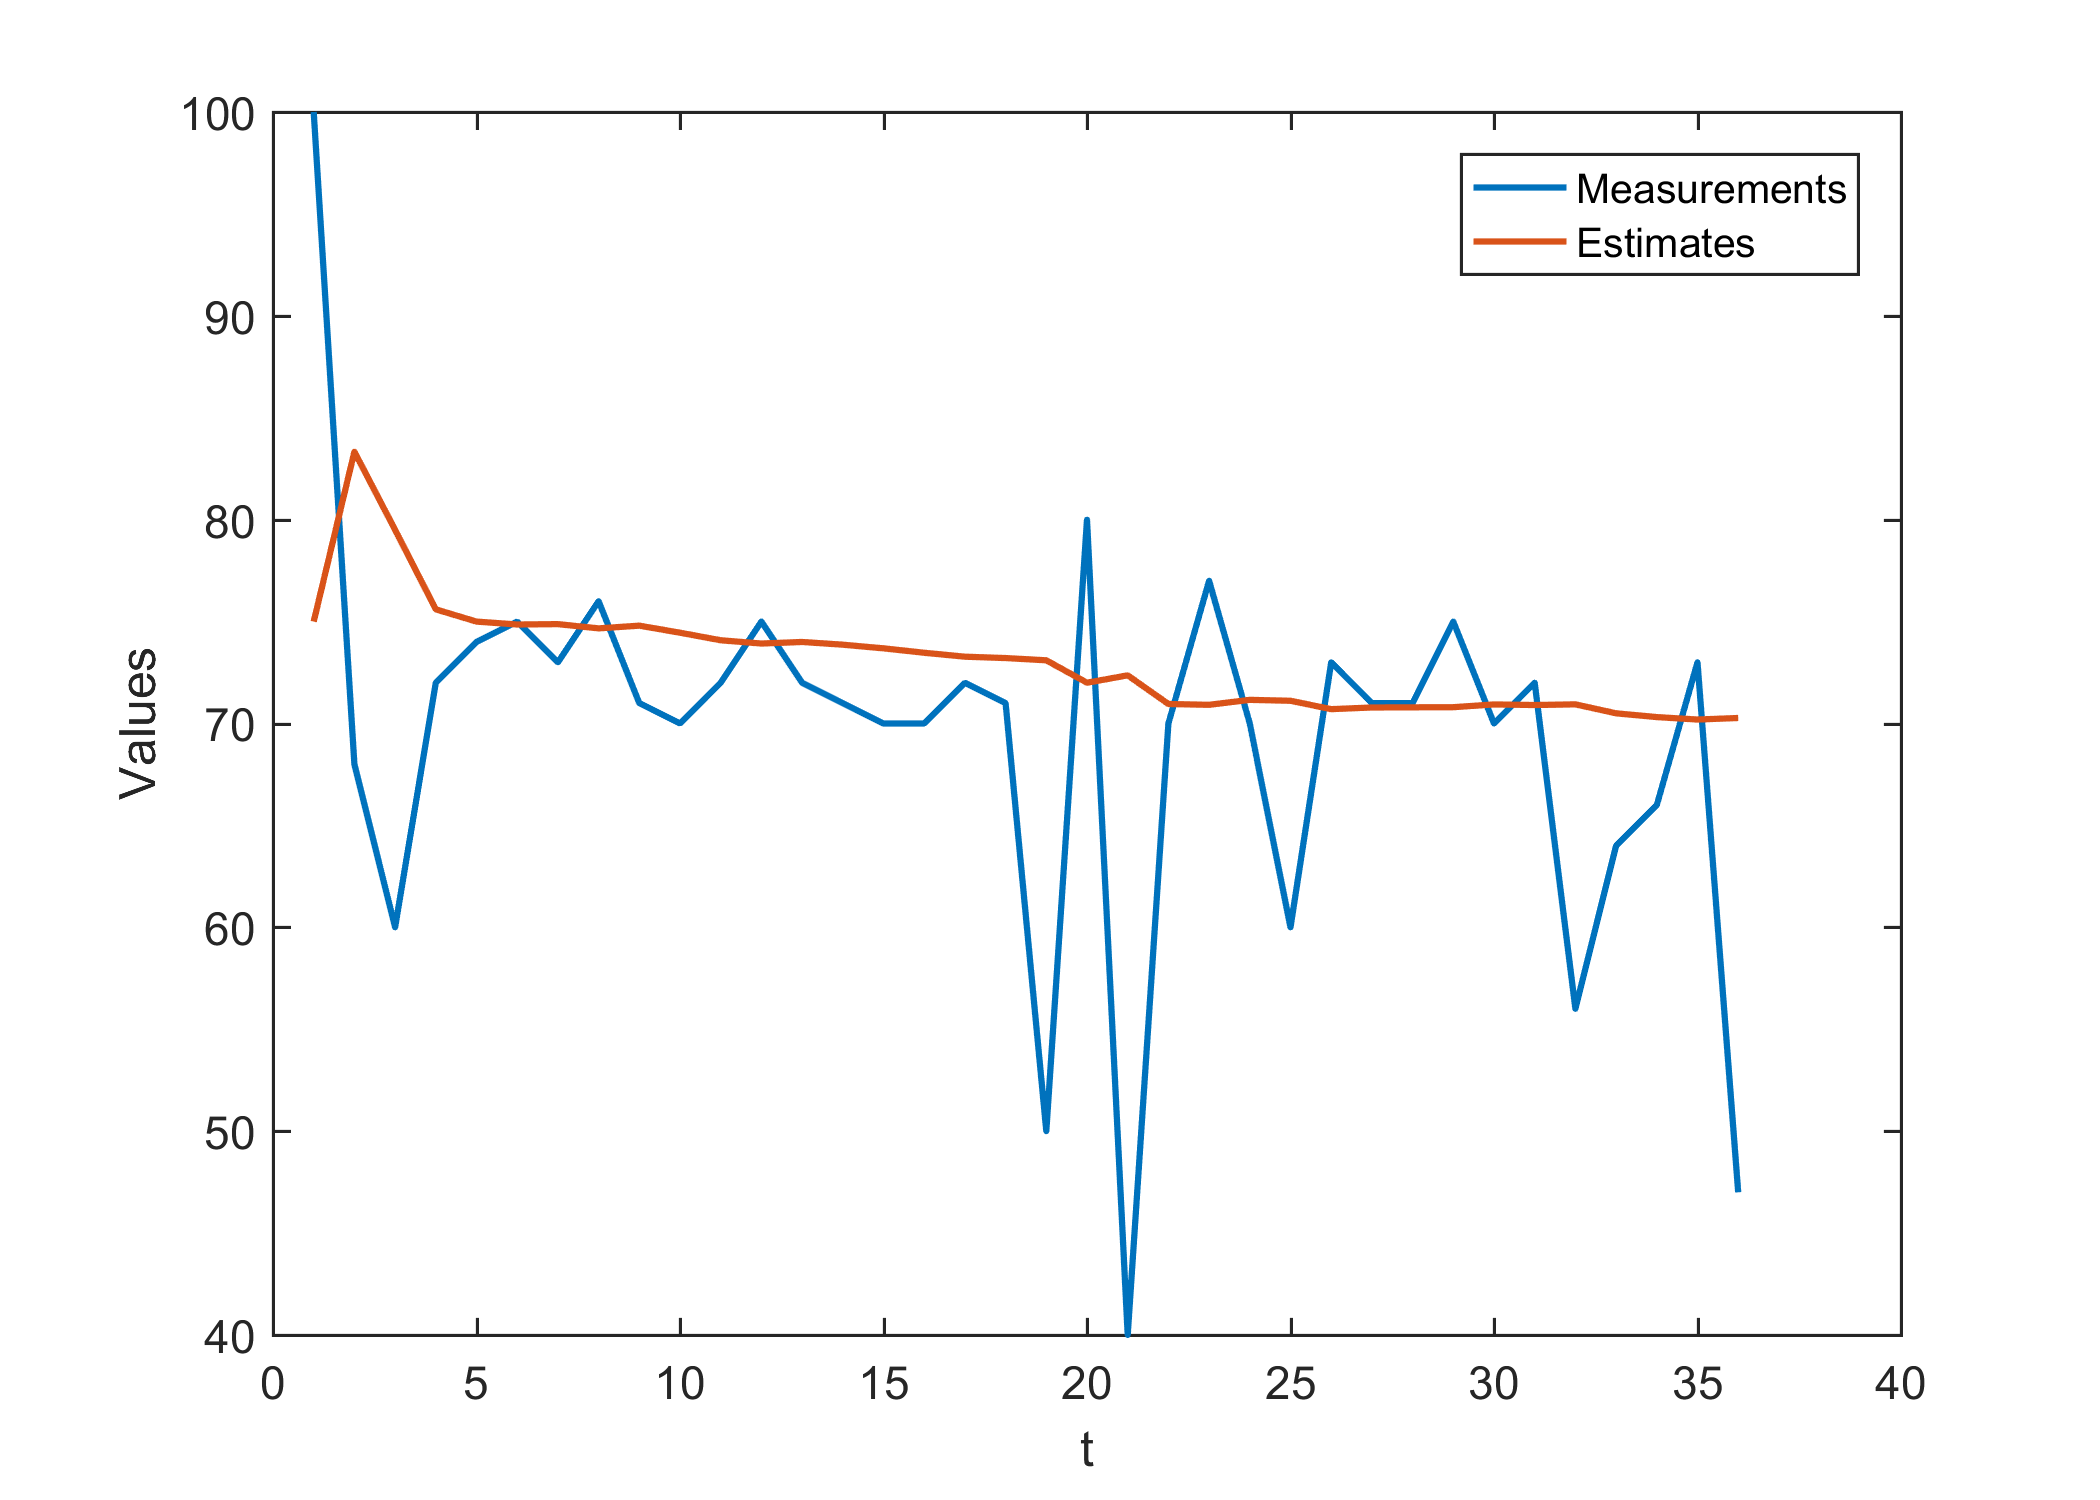
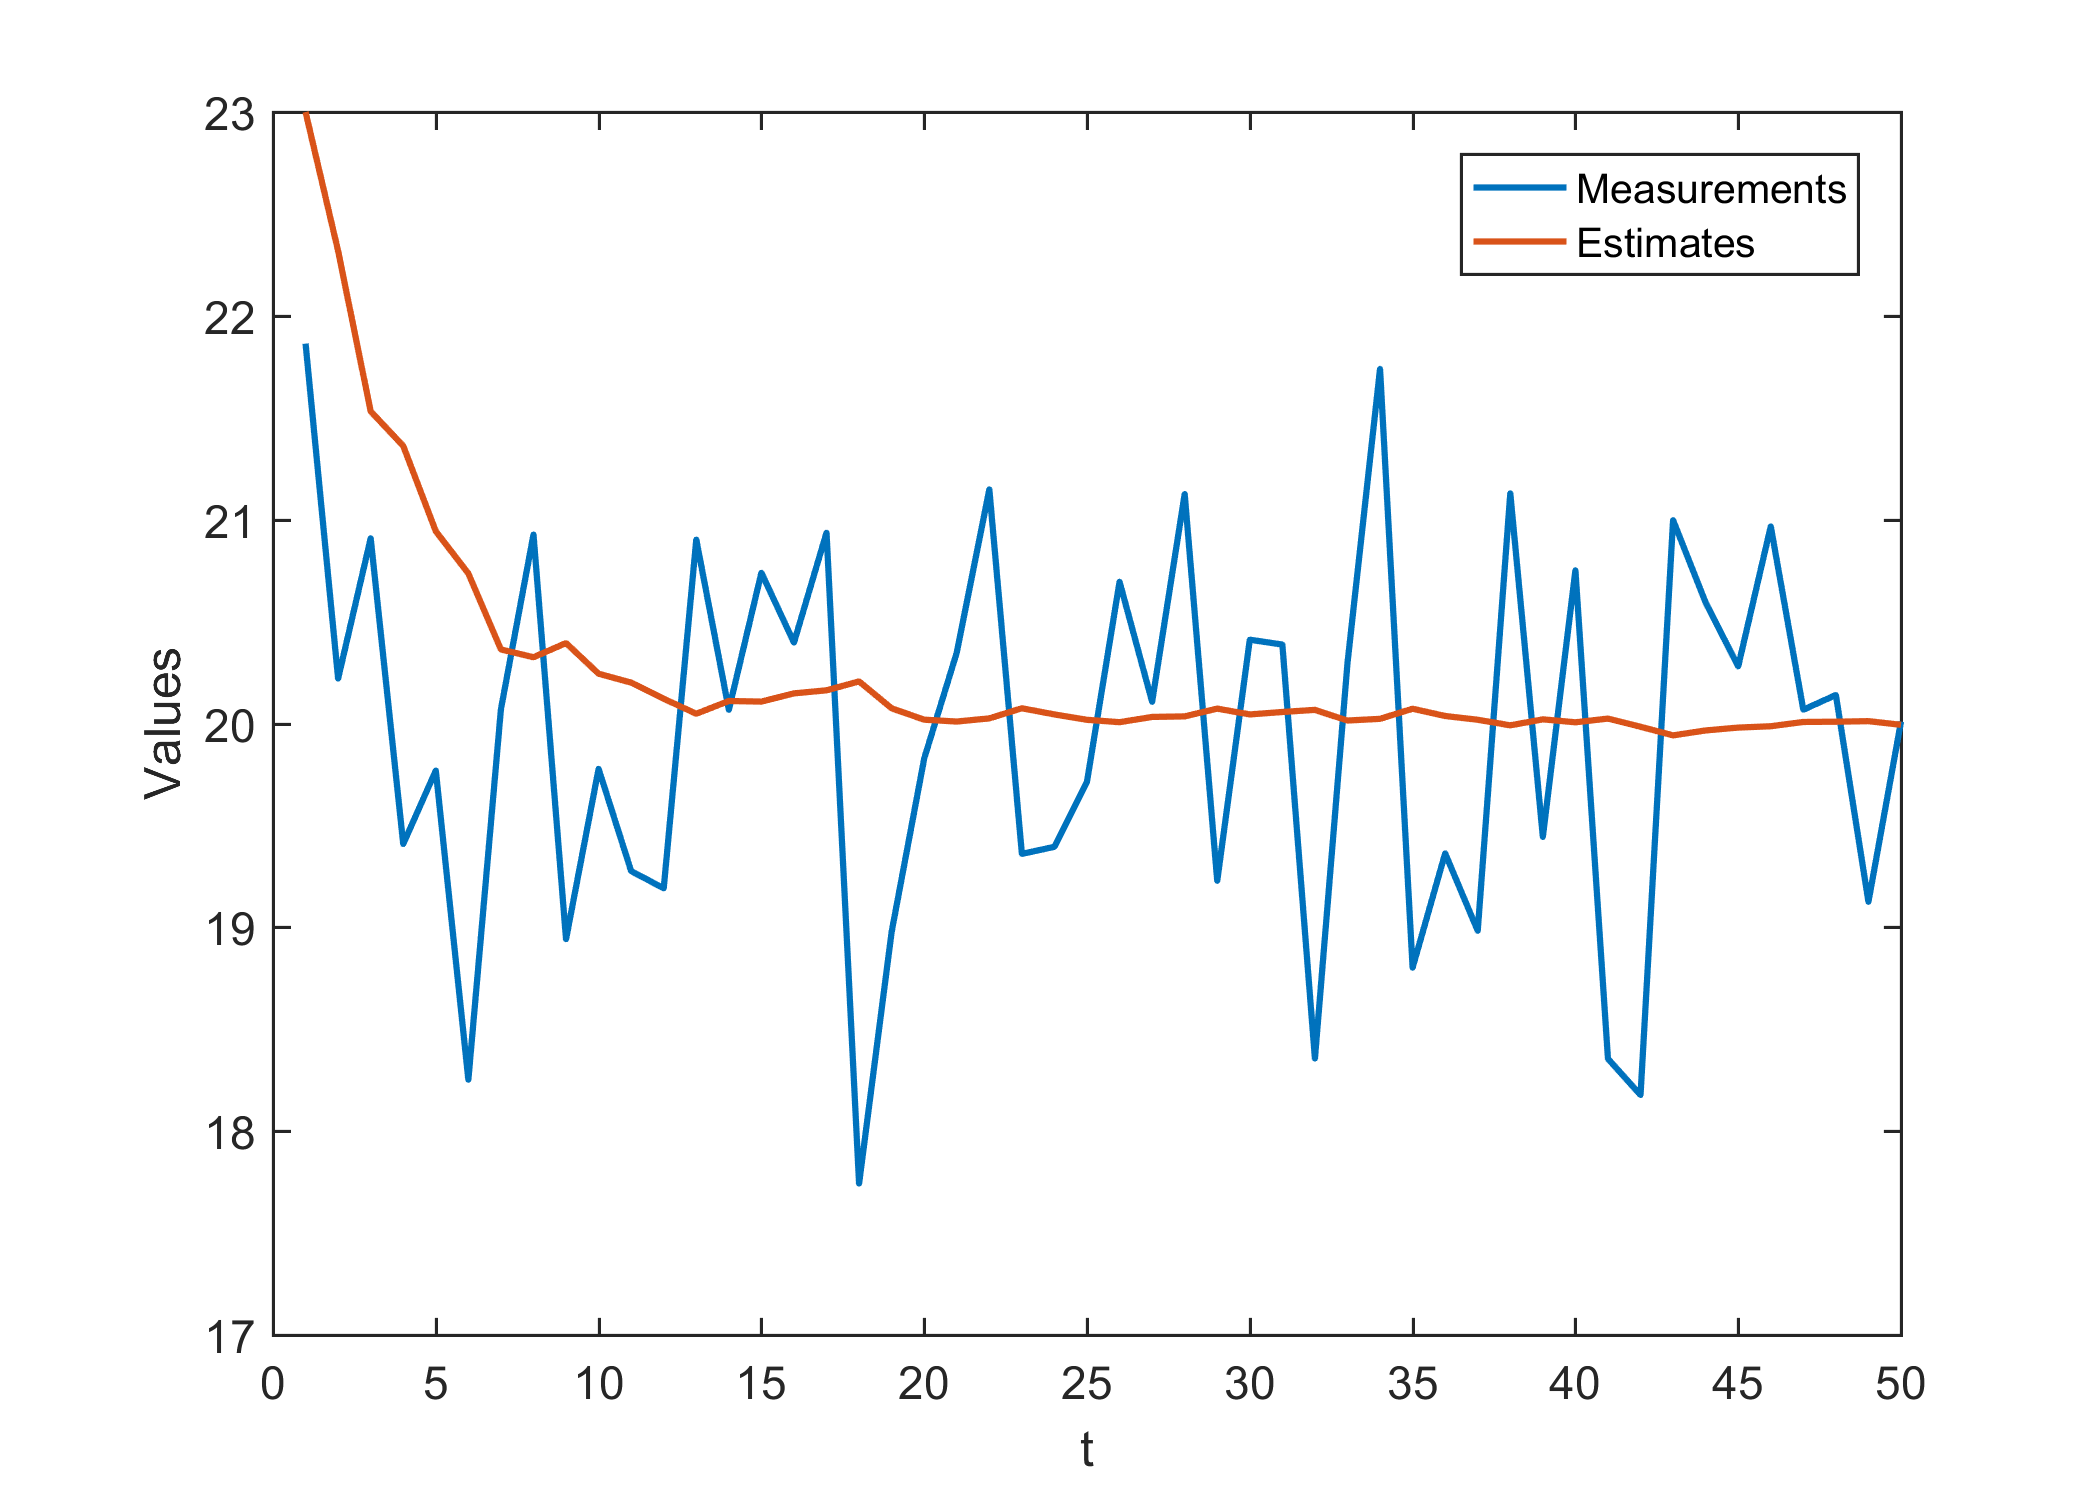
Changed measurement data

diff --git a/BeispielOhneMatrix.m b/BeispielOhneMatrix.m
@@ -1,14 +1,17 @@
 clear all;
 
-measurements = [100; 68; 60; 72; 74; 75; 73; 76; 71; 70; 72; 75; 72; 71; 70; 70; 72; 71; 50; 80; 40; 70; 77; 70; 60; 73; 71; 71; 75; 70; 72; 56; 64; 66; 73; 47];
-estimates = (1:size(measurements,1));
-estimates(1) = 75;                              % initial estimate
-errors = (1:size(measurements,1));
-errors(1) = 2;
-measErr = 4;
+measurements = [21.8637929589789 20.2203506373265 20.9086354548582 19.4088297790472 19.7690201455967 18.2522305081561 20.0698322085498 20.9269808973863 18.9418239566577 19.7775154459492 19.2759185698247 19.1915917077952 20.9023934810928 20.0672670774844 20.7395932426423 20.3967753097481 20.9357915234428 17.7427960326353 18.9778771242300 19.8281151942768 20.3479121327860 21.1484325229735 19.3603762787404 19.3950525746836 19.7148449846203 20.6952204831622 20.1064347758691 21.1257016538631 19.2280680974510 20.4111336427935 20.3871884394671 18.3559922327388 20.2963888134685 21.7396936608370 18.8022147884121 19.3629187380481 18.9832420937512 21.1290679574493 19.4434859247075 20.7513579891163 18.3552401786798 18.1774477510084 20.9973557875997 20.5933062663922 20.2800742270737 20.9670675872049 20.0675910317724 20.1399051714884 19.1251076833658 20.0095055752150]';
+%measurements = randn(1,50);
+%scaleVector = (([1:length(measurements)]+3) .^ -1)*8;
+%measurements = measurements + 20;
+estimates = (1:length(measurements));
+estimates(1) = 23;                              % initial estimate
+errors = (1:length(measurements));
+errors(1) = 3;
+measErr = 2;
 kalmanGain = (1:size(measurements,1));
 
-for n = 2:size(measurements,1)
+for n = 2:length(measurements)
     kalmanGain(n) = errors(n-1) / (errors(n-1) + measErr);   % Calculate kalman gain
     
     estimates(n) = estimates(n-1) + kalmanGain(n)*(measurements(n-1) - estimates(n-1));
@@ -19,7 +22,7 @@ end
 plot(measurements, 'LineWidth',1.5);
 hold on;
 plot(estimates, 'LineWidth', 1.5);
-hold on;
+hold off;
 %plot(errors);
 
 legend('Measurements','Estimates'); 
